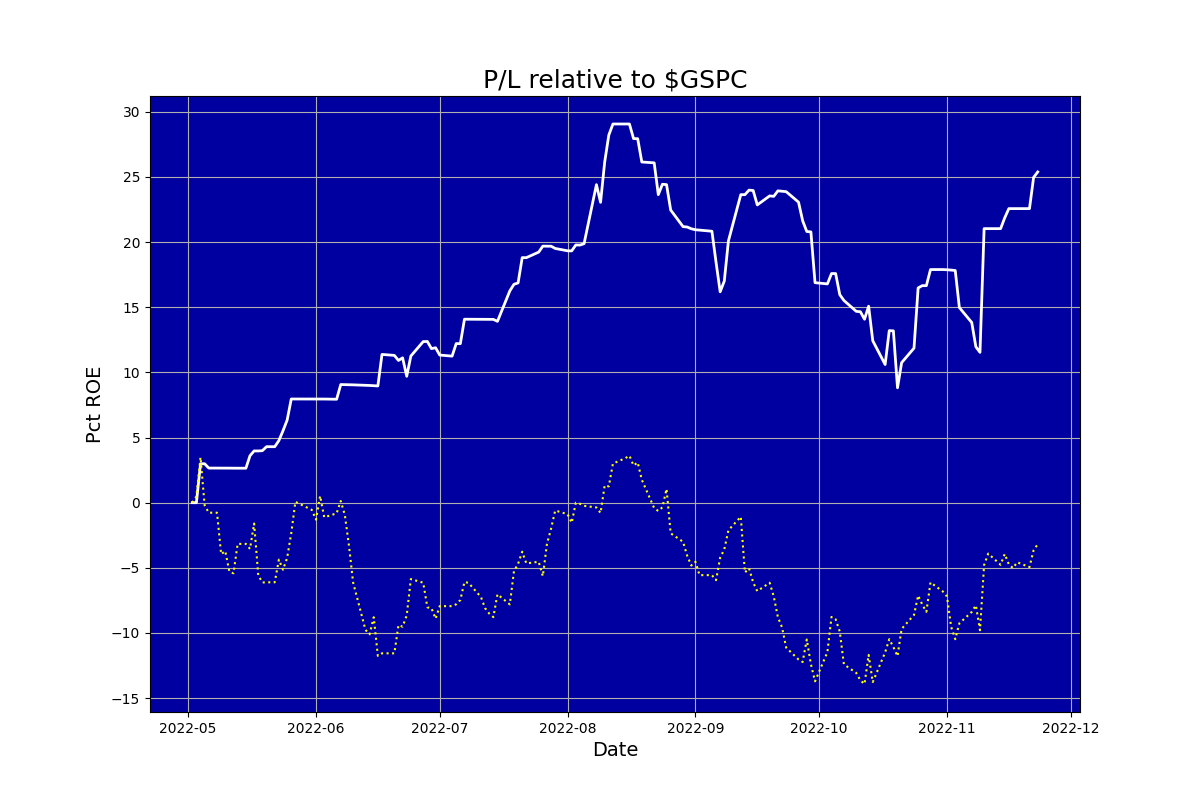
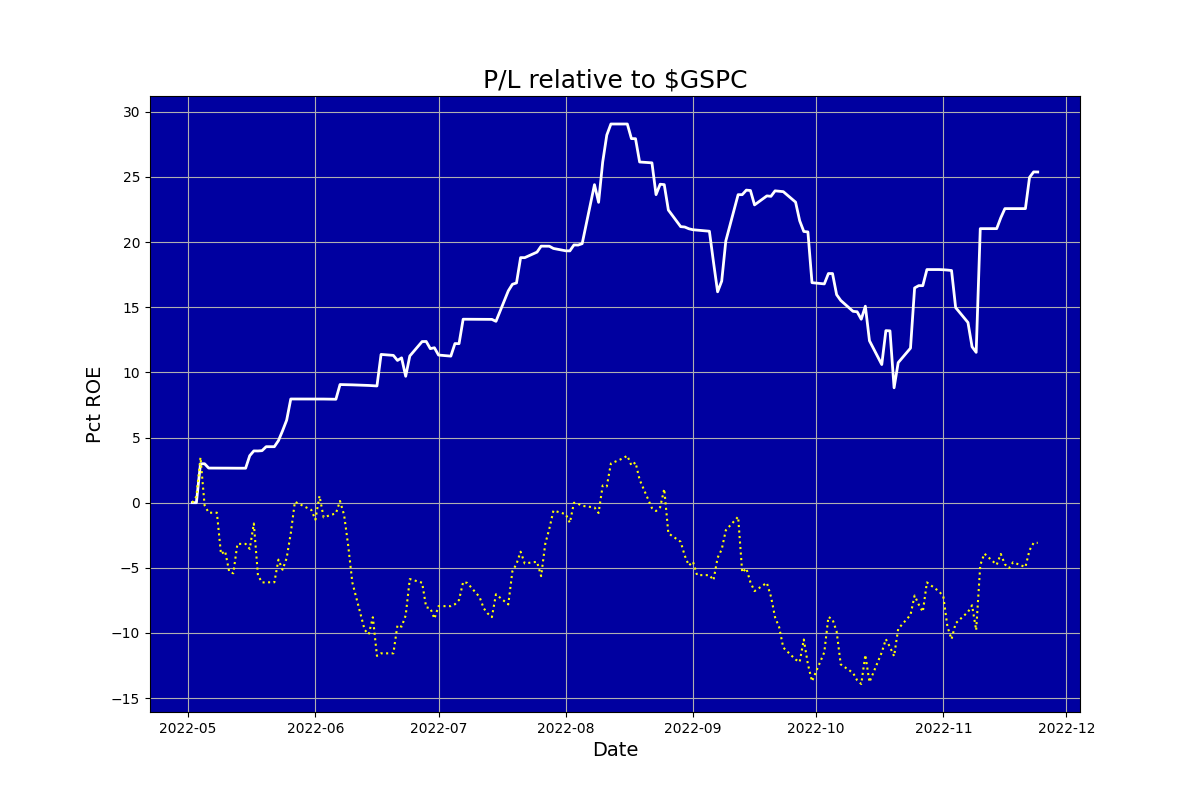
Updated

diff --git a/ig_report.html b/ig_report.html
@@ -1,1 +1,1 @@
-<html><body><center><h1>Auriel (never knowingly overbought)</h1></center><table cols=2><tr><td><img src=ig_pl.png></td><td><table cols=2><tr><td colspan=2><b><br>Snapshot</b></td></tr><tr><td>Last updated:&nbsp;&nbsp;&nbsp;</td><td>2022-11-23 15:56</td></tr><tr><td>Funds:&nbsp;&nbsp;&nbsp;</td><td>15400.62</td></tr><tr><td>Margin:&nbsp;&nbsp;&nbsp;</td><td>0.06</td></tr><tr><td>Cushion:&nbsp;&nbsp;&nbsp;</td><td>-3120.83</td></tr><tr><td>Last closed trade:&nbsp;&nbsp;&nbsp;</td><td>2022-11-23</td></tr><tr><td colspan=2><b><br>Positions</b></td></tr><tr><td>Mean days to new high:&nbsp;&nbsp;&nbsp;</td><td>13.22</td></tr><tr><td colspan=2><b><br>Trades</b></td></tr><tr><td>Traded days:&nbsp;&nbsp;&nbsp;</td><td>150</td></tr><tr><td>Pct profitable days:&nbsp;&nbsp;&nbsp;</td><td>34.00</td></tr><tr><td>Pct days beat S&P:&nbsp;&nbsp;&nbsp;</td><td>57.64</td></tr><tr><td>Pct profitable months:&nbsp;&nbsp;&nbsp;</td><td>85.71</td></tr><tr><td colspan=2><b><br>Performance</b></td></tr><tr><td>Pct median monthly ROE:&nbsp;&nbsp;&nbsp;</td><td>3.63</td></tr><tr><td>Pct annualised ROE:&nbsp;&nbsp;&nbsp;</td><td>39.76</td></tr><tr><td colspan=2><b><br>Risk</b></td></tr><tr><td>Volatility pct:&nbsp;&nbsp;&nbsp;</td><td>20.38</td></tr><tr><td>Benchmark volatility pct:&nbsp;&nbsp;&nbsp;</td><td>25.79</td></tr><tr><td>Sharpe ratio (RFR 2.5%):&nbsp;&nbsp;&nbsp;</td><td>1.88</td></tr><tr><td>Calmar ratio:&nbsp;&nbsp;&nbsp;</td><td>1.96</td></tr><tr><td>Worst drawdown pct:&nbsp;&nbsp;&nbsp;</td><td>-0.20</td></tr><tr><td>Recovery days from worst drawdown:&nbsp;&nbsp;&nbsp;</td><td>9999.00</td></tr><tr><td>Beat benchmark +ve periods pct:&nbsp;&nbsp;&nbsp;</td><td>0.75</td></tr><tr><td>Beat benchmark -ve periods pct:&nbsp;&nbsp;&nbsp;</td><td>0.90</td></tr><tr><td>Correlation with benchmark:&nbsp;&nbsp;&nbsp;</td><td>0.40</td></tr></table></td></tr></table></body></html>
+<html><body><center><h1>Auriel (never knowingly overbought)</h1></center><table cols=2><tr><td><img src=ig_pl.png></td><td><table cols=2><tr><td colspan=2><b><br>Snapshot</b></td></tr><tr><td>Last updated:&nbsp;&nbsp;&nbsp;</td><td>2022-11-24 15:56</td></tr><tr><td>Funds:&nbsp;&nbsp;&nbsp;</td><td>15399.82</td></tr><tr><td>Margin:&nbsp;&nbsp;&nbsp;</td><td>0.06</td></tr><tr><td>Cushion:&nbsp;&nbsp;&nbsp;</td><td>-3122.93</td></tr><tr><td>Last closed trade:&nbsp;&nbsp;&nbsp;</td><td>2022-11-24</td></tr><tr><td colspan=2><b><br>Positions</b></td></tr><tr><td>Mean days to new high:&nbsp;&nbsp;&nbsp;</td><td>13.19</td></tr><tr><td colspan=2><b><br>Trades</b></td></tr><tr><td>Traded days:&nbsp;&nbsp;&nbsp;</td><td>151</td></tr><tr><td>Pct profitable days:&nbsp;&nbsp;&nbsp;</td><td>33.77</td></tr><tr><td>Pct days beat S&P:&nbsp;&nbsp;&nbsp;</td><td>57.64</td></tr><tr><td>Pct profitable months:&nbsp;&nbsp;&nbsp;</td><td>85.71</td></tr><tr><td colspan=2><b><br>Performance</b></td></tr><tr><td>Pct median monthly ROE:&nbsp;&nbsp;&nbsp;</td><td>3.63</td></tr><tr><td>Pct annualised ROE:&nbsp;&nbsp;&nbsp;</td><td>39.48</td></tr><tr><td colspan=2><b><br>Risk</b></td></tr><tr><td>Volatility pct:&nbsp;&nbsp;&nbsp;</td><td>20.31</td></tr><tr><td>Benchmark volatility pct:&nbsp;&nbsp;&nbsp;</td><td>25.79</td></tr><tr><td>Sharpe ratio (RFR 2.5%):&nbsp;&nbsp;&nbsp;</td><td>1.87</td></tr><tr><td>Calmar ratio:&nbsp;&nbsp;&nbsp;</td><td>1.95</td></tr><tr><td>Worst drawdown pct:&nbsp;&nbsp;&nbsp;</td><td>-0.20</td></tr><tr><td>Recovery days from worst drawdown:&nbsp;&nbsp;&nbsp;</td><td>9999.00</td></tr><tr><td>Beat benchmark +ve periods pct:&nbsp;&nbsp;&nbsp;</td><td>0.75</td></tr><tr><td>Beat benchmark -ve periods pct:&nbsp;&nbsp;&nbsp;</td><td>0.90</td></tr><tr><td>Correlation with benchmark:&nbsp;&nbsp;&nbsp;</td><td>0.40</td></tr></table></td></tr></table></body></html>
